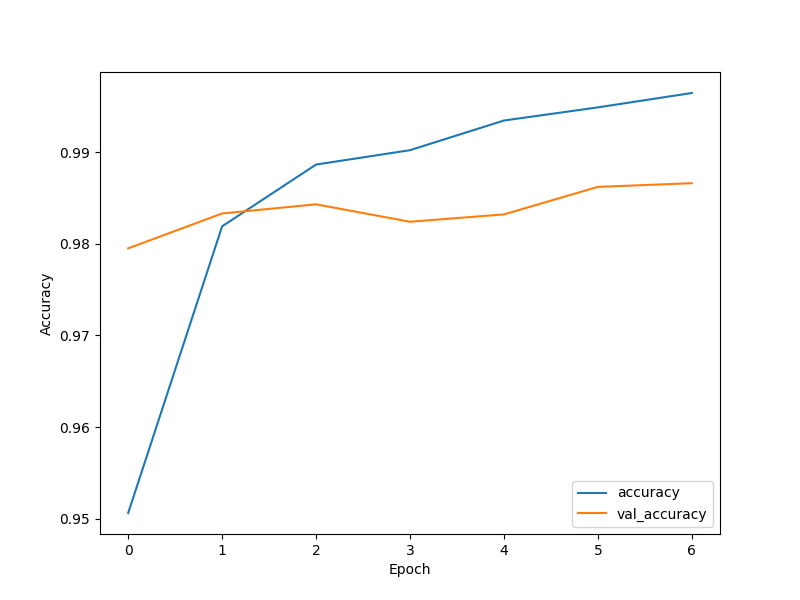
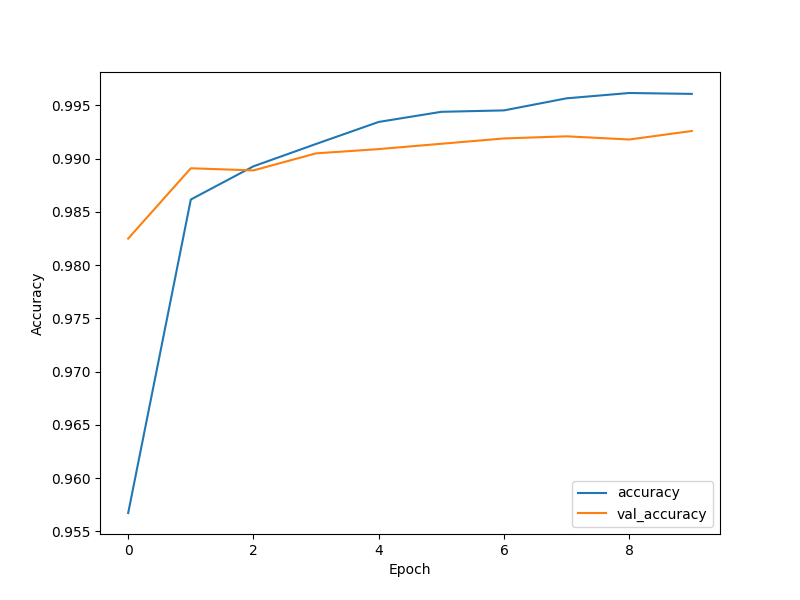
Change IA model, change solver algo and last step is to update the extraction of all digits in the grid

diff --git a/Interface/appUI.py b/Interface/appUI.py
@@ -7,6 +7,7 @@ import numpy as np
 import time
 import threading
 import tensorflow as tf
+import threading
 
 sys.path.append('./ImageProcess')
 sys.path.append('./Results')
@@ -118,14 +119,17 @@ class App(ctk.CTk):
         self.home_frame_large_image_label.grid(row=0, column=0, padx=20, pady=10)
 
         # Description of the process
-        self.description = ctk.CTkTextbox(master=self, width=225, height=65, corner_radius=0)
+        self.description = ctk.CTkTextbox(master=self, width=225, height=65,
+        corner_radius=0)
         
         # Set the text font and size
         self.description.configure(font=("Optima", 18))
 
         # Sentence that describes the process
-        self.description.insert("0.0", "Import an image and then press the start button to process the selected image.💻")
-        self.description.grid(row=7, column=0, padx=10, pady=10, sticky="ew", columnspan=2)
+        self.description.insert("0.0",
+        "Import an image and then press the start button to process the selected image.💻")
+        self.description.grid(row=7, column=0, padx=10,
+        pady=10, sticky="ew", columnspan=2)
         
         # Step to be situated in the process
         self.step = 0
@@ -166,7 +170,7 @@ class App(ctk.CTk):
         time.sleep(2)
 
         return binary
-
+    
     def findGrid(self, binary):
         # Find the contours on the binary image
         contours, _ = cv2.findContours(binary, 
@@ -245,11 +249,15 @@ class App(ctk.CTk):
 
         self.update_image(final_image)
     
+    # Define a timeout handler
+    def timeout_handler(self, timer):
+        self.update_text("Step6.0: Sudoku could not be solved.")
+
     # Function that take images and create the Sudoku grid
     def recognizeDigits(self, images):
         grid = [[0 for _ in range(9)] for _ in range(9)]
         L = len(images)
-
+        
         # Load the saved model
         model = tf.keras.models.load_model('model.h5')
 
@@ -259,18 +267,17 @@ class App(ctk.CTk):
             if images[i][3]:
                 # Resize and reshape the image
                 image = images[i][0]
-                image = Image.fromarray(image)
-                image = image.resize((28, 28))
+                image = cv2.resize(image, (28, 28))
                 image = np.array(image)
-                image = image.reshape(1, 28, 28, 1)
-                image = image / 255.0
+                image_digit = image.reshape(1, 28, 28, 1)  # Adjust the reshape dimensions
 
                 # Perform prediction using the loaded model
-                prediction = model.predict(image)[0]
-                predicted_digit = np.argmax(prediction)
+                prediction = np.argmax(model.predict(image_digit)[0])
 
                 # Assign the predicted digit to the corresponding grid cell
-                grid[y][x] = predicted_digit
+                cv2.imshow('digit', image)
+                grid[y][x] = prediction
+                print(prediction)
         
         return grid
     
@@ -325,14 +332,36 @@ class App(ctk.CTk):
             # Step 4 : Recognize digits
             self.update_text("Step4.0: Recognize digits.🤖")
             grid = self.recognizeDigits(images)
+            print(grid)
             time.sleep(2)
             
             if(self.paused):
                 return
-        
-            # Step 5 : Solve the Sudoku grid
+
+            # Set the timeout value (in seconds)
+            timeout = 8
+
+            # Create a Timer thread
+            timer = threading.Timer(timeout, self.timeout_handler)
+
+            # Step 5: Solve the Sudoku grid
             self.update_text("Step5.0: Solve the Sudoku grid.👌")
-            result = mainSolver(grid)
+            try:
+                # Start the timer
+                timer.start()
+
+                # Call the mainSolver function
+                result = mainSolver(grid)
+
+                # Cancel the timer if the function completes before the timeout
+                timer.cancel()
+
+            except TimeoutError:
+                # Handle the timeout error
+                self.update_text("Step6.0: Sudoku could not be solved.\n"
+                +"Click on the 'Result' button to see the grid recognized by the OCR.")
+                mainDraw(grid)
+                return
             
             if(self.paused):
                 return

diff --git a/AI/AI.py b/AI/AI.py
@@ -14,28 +14,35 @@ def mainAI():
     # No need to clean this dataset
 
     # Preprocess the data
-    xTrain = xTrain.reshape(-1, 28, 28, 1) / 255.0
-    xTest = xTest.reshape(-1, 28, 28, 1) / 255.0
+    xTrain = xTrain.reshape((60000, 28, 28, 1)) / 255.0
+    xTest = xTest.reshape((10000, 28, 28, 1)) / 255.0
     yTrain = tf.keras.utils.to_categorical(yTrain, num_classes=10)
     yTest = tf.keras.utils.to_categorical(yTest, num_classes=10)
 
     # Create the CNN model
     model = tf.keras.Sequential([
-    tf.keras.layers.Conv2D(32, (3, 3), activation='relu', input_shape=(28, 28, 1)), # Input layers
-    tf.keras.layers.MaxPooling2D((2, 2)),
-    tf.keras.layers.Flatten(),
-    tf.keras.layers.Dense(64, activation='relu'),
-    tf.keras.layers.Dense(10, activation='softmax') # Get the proba for the digits
+        tf.keras.layers.Conv2D(64, (3, 3), activation='relu', input_shape=(28, 28, 1)),
+        tf.keras.layers.Conv2D(32, 3, padding='same', activation='relu'),
+        tf.keras.layers.MaxPooling2D(),
+        tf.keras.layers.Conv2D(16, 3, padding='same', activation='relu'),
+        tf.keras.layers.MaxPooling2D(),
+        tf.keras.layers.Conv2D(64, 3, padding='same', activation='relu'),
+        tf.keras.layers.MaxPooling2D(),
+        tf.keras.layers.Flatten(),
+        tf.keras.layers.Dense(128, activation='relu'),
+        tf.keras.layers.Dense(10, activation='sigmoid')
     ])
-
-    # Compile the model for the training and the 
+    
     # Compile the model
     model.compile(optimizer='adam',
-                loss='categorical_crossentropy', metrics=['accuracy'])
+    loss=tf.keras.losses.CategoricalCrossentropy(from_logits=True),
+    metrics=['accuracy'])
+
+    model.summary()
 
     # Train the model
-    trained = model.fit(xTrain, yTrain, batch_size=32, 
-                    epochs=7, validation_data=(xTest, yTest))
+    trained = model.fit(xTrain, yTrain, epochs=10,
+    validation_data=(xTest, yTest))
     
     # Get the plot from the data to show the accuracy of the model
     # Plot for the accuracy of the model

diff --git a/Solver/solver.py b/Solver/solver.py
@@ -68,33 +68,23 @@ def backtracking(grid):
 # This function call the function that do the Backtracking algorithm
 # The grid is an array of size : (9 x 9)
 def mainSolver(grid):
-    n, _ = getLocation(grid)
-    # If the grid is full
-    if(n == -1):
+    if(correctGrid(grid)):
+        n, _ = getLocation(grid)
+
+        # If the grid is full
+        if(n == -1):
         # Check if the full grid is correct
-        if(correctGrid(grid)):
             return (1, grid)
+
+        # Try to get a solution
+        res,newGrid = backtracking(grid)
+        # Solution found
+        if(res):
+            return newGrid
         else:
-            return (0, grid)
-    res,newGrid = backtracking(grid)
-    # True is equal to 1
-    if(res):
-        return newGrid
+            return -1
+    
+    # The original grid is not valid
     else:
         return -1
-
-# Tests to performe the algorithm    
-""" grid =[[3, 0, 6, 5, 0, 8, 4, 0, 0],
-          [5, 2, 0, 0, 0, 0, 0, 0, 0],
-          [0, 8, 7, 0, 0, 0, 0, 3, 1],
-          [0, 0, 3, 0, 1, 0, 0, 8, 0],
-          [9, 0, 0, 8, 6, 3, 0, 0, 5],
-          [0, 5, 0, 0, 9, 0, 6, 0, 0],
-          [1, 3, 0, 0, 0, 0, 2, 5, 0],
-          [0, 0, 0, 0, 0, 0, 0, 7, 4],
-          [0, 0, 5, 2, 0, 6, 3, 0, 0]]
-
-start = time.time()
-print(mainSolver(grid))
-end = time.time()
-print("--- %s seconds ---" % (end - start)) """
+    

diff --git a/ImageProcess/processing.py b/ImageProcess/processing.py
@@ -75,8 +75,7 @@ def extractDigits(transformed):
                 if(0.4 * sized < imY2 < 0.8 * sized and
                     0.2 * sized <  imX2 < 0.8 * sized):
                     # Clean the digit image
-                    digitImage = image[imY1:imY1 + imY2,
-                                        imX1:imX1 + imX2]
+
                     digitImages.append((digitImage, i, j, 1))
                     found = 1
                     break
@@ -106,13 +105,6 @@ def mainProcessing(grid, binary):
 
             #  Get the list of all the digiit cases
             digitImages = extractDigits(inverted)
-
-            # Tests to check the number of digits recognized           
-            """cpt = 0
-            for digit in digitImages:
-                if(digit[3]):
-                    cpt+=1
-            print(cpt)"""
 
         except Exception as e:
             # cv2.destroyAllWindows()
